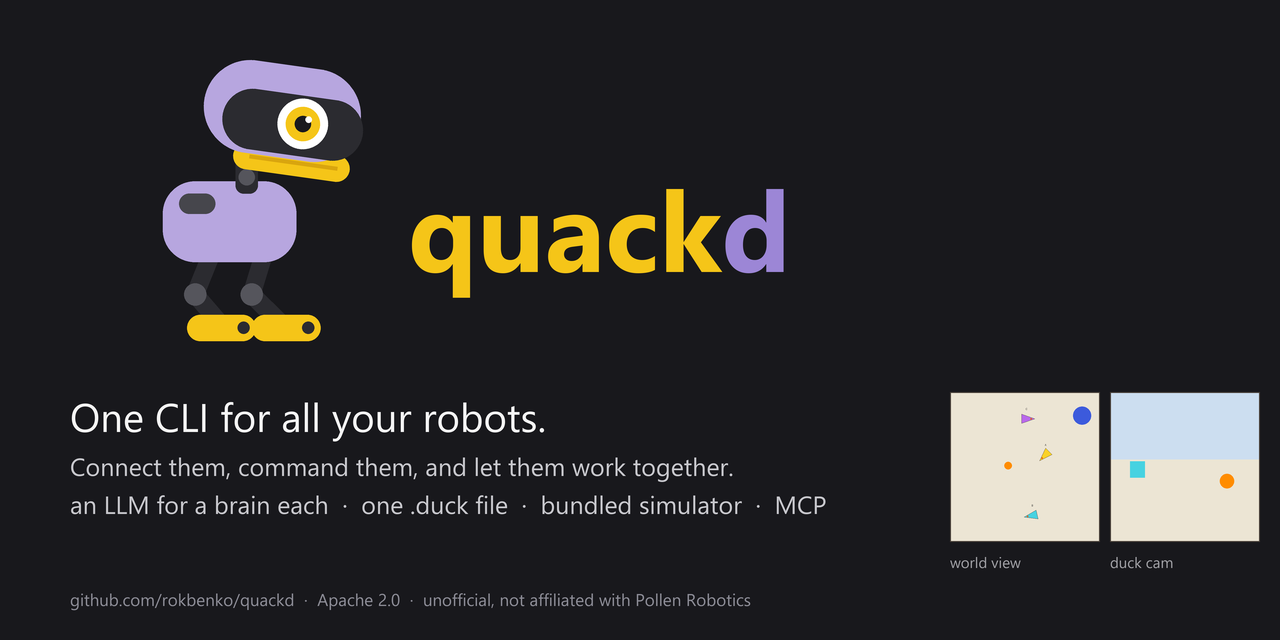
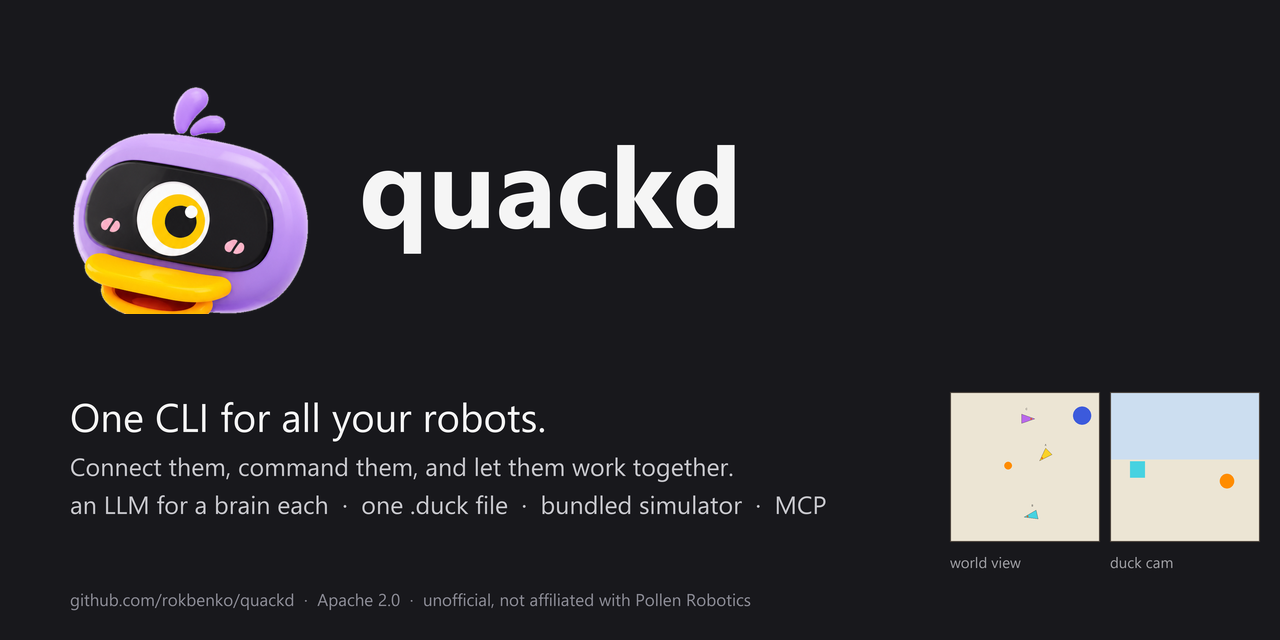
docs(readme): the head from quackd.org, and one mark instead of two
The README opened with a flat biped and a wordmark that set quack in yellow and
the d in purple. It opens with the 3D duck head instead, the same drawing
quackd.org shows in a browser tab, over a plain h1 in whatever colour the
reader's GitHub theme uses for a heading. The two marks had been drifting since
the landing page shipped, and a project whose front door and whose website do
not look like the same project is paying for two identities and getting neither.

The head was already here. web/assets/duck-mark.png was vendored for the browser
demo in 0.8, so the README, the social card and the demo now read one file
rather than three drawings of the same idea. It is the same art quackd.org shows
in a browser tab, though not the same file: favicon-96.png beside it is its own
smaller export, and the docs say so rather than claiming one file does both.

docs/assets/social_preview.py stops transcribing logo.svg's geometry into Pillow
and pastes that PNG instead. It lands after the LANCZOS downsample rather than
before, so the only finished art on the card is never resized, and both the mark
and the name are positioned by measuring their own ink, because _FACES resolves
to a different typeface on every machine and a hardcoded baseline would sit the
name at a different height on Windows than on CI. The wordmark loses the
two-colour split for the same white the headline uses.

docs/assets/logo.svg is deleted. A second mark that nothing renders is a second
mark that goes stale.
[…]

Changed region(s): [[0.0312, 0.0938, 0.625, 0.5312]]

diff --git a/docs/assets/social_preview.py b/docs/assets/social_preview.py
@@ -2,22 +2,29 @@
 
     uv run python docs/assets/social_preview.py        # writes docs/assets/social-preview.png
 
+Run it from a checkout. The sdist carries `docs/` and not `web/`, so the mark this pastes is
+not in a published package, the same way `hero3d.py` needs upstream's model fetched first.
+
 The card carried the one-liner, so it went stale the day the positioning changed
 ([ADR-0035](../adr/0035-one-cli-for-all-your-robots.md)). It had been made by hand and the
 script was never committed, which is why `docs/assets/README.md` used to point at a commit
 that does not contain one. This is that script, so the next person who changes a word here
 does not have to redraw a duck.
 
-Two things are drawn rather than loaded. The mark and the wordmark are `logo.svg`'s own
-geometry, transcribed, because rasterising SVG would add a dependency for one asset. The two
-panels on the right are real `sim2d` renders of a three robot arena, through the same
-`render_topdown` and `render_duckcam` a run writes its GIF with, so what the card shows is
-what the simulator draws.
+The mark is loaded rather than drawn. It is `web/assets/duck-mark.png`, the duck head the
+README opens with, the same art quackd.org shows in a browser tab, and it is pasted at its own
+resolution after the card is resampled, so the one piece of finished art here is never
+resized. Until 0.9 this script transcribed `logo.svg`'s geometry into Pillow instead, and
+`logo.svg` is gone with it. The two panels on the right are real `sim2d` renders of a three
+robot arena, through the same `render_topdown` and `render_duckcam` a run writes its GIF
+with, so what the card shows is what the simulator draws.
 
-Everything is drawn at `SS` times scale and resampled down, which is what gives the rounded
-corners and the type their edges. Fonts are the one machine-dependent part: a bold and a
-regular face are looked up from `_FACES` and the script stops with a readable error if
-neither is found, rather than silently falling back to a bitmap font that would not fit.
+Everything this script draws is drawn at `SS` times scale and resampled down, which is what
+gives the type its edges. The mark is the exception above: it is art rather than geometry,
+and it lands after that resample at the size it was exported. Fonts are the one
+machine-dependent part: a bold and a regular face are looked up from `_FACES` and the script
+stops with a readable error if neither is found, rather than silently falling back to a
+bitmap font that would not fit.
 
 Uploading it is still manual: GitHub has no API for Settings, Social preview.
 """
@@ -34,21 +41,19 @@ from quackd.sim2d.world import World
 
 HERE = Path(__file__).resolve().parent
 OUT = HERE / "social-preview.png"
+#: The mark, kept once. `web/assets` serves it to the browser demo and the README opens with
+#: it, so this reads that copy rather than taking a second one into `docs/assets`. The tab
+#: icon beside it, `favicon-96.png`, is the same drawing exported small, not this file.
+MARK = HERE.parent.parent / "web" / "assets" / "duck-mark.png"
 
 W, H = 1280, 640
 SS = 4  # supersample factor: draw big, resample once, keep the curves clean
 
-# Sampled from the card this replaces, so the two sit side by side in a timeline without
-# one of them looking like a different project. `logo.svg` is the source for the first four.
+# Sampled from the card this replaces, so the two sit side by side in a timeline without one
+# of them looking like a different project. The brand colours are no longer among them: the
+# mark brings its own and the name is set in the same white as the headline, because a
+# wordmark that recolours two letters competes with a piece of art that did not need help.
 BG = (24, 24, 28)
-YELLOW = (245, 197, 24)
-YELLOW_DARK = (217, 165, 14)
-LAVENDER = (183, 166, 223)
-PURPLE = (156, 134, 214)
-INK = (43, 43, 48)
-GREY = (85, 85, 92)
-WHITE = (255, 255, 255)
-EYE = (26, 26, 30)
 HEADLINE = (245, 245, 245)
 BODY = (200, 200, 205)
 MUTED = (140, 140, 150)
@@ -92,100 +97,38 @@ def s(x: float, y: float) -> tuple[float, float]:
     return x * SS, y * SS
 
 
-# ── the mark, transcribed from logo.svg ─────────────────────────────────────────────────
+# ── the lockup ──────────────────────────────────────────────────────────────────────────
 #
-# logo.svg draws in a 470x150 viewBox with the bird under `translate(8,6)`. Everything below
-# is in those coordinates and `_mark` applies the scale, so a change upstream can be copied
-# across by reading the two files next to each other.
+# Where the mark's own pixels land on the finished 1280x640 card. The name is placed off the
+# mark rather than at a coordinate of its own, so moving one moves both.
+MARK_XY = (57, 58)  # top left of the 256x256 PNG, chosen so its ink starts at the headline's x
+MARK_GAP = 48  # from the mark's right-hand ink to the start of the name
+WORDMARK_PT = 112
 
 
-def _bird_body(d: ImageDraw.ImageDraw, ox: float, oy: float, k: float) -> None:
-    """Legs, feet and torso: the part of the group that is not rotated."""
+def load_mark() -> tuple[Image.Image, tuple[int, int, int, int]]:
+    """The mark and the box its opaque pixels occupy on the finished card.
 
-    def p(x: float, y: float) -> tuple[float, float]:
-        return ox + x * k, oy + y * k
-
-    for pts in ((58, 96, 50, 116, 62, 130), (84, 96, 78, 116, 92, 130)):
-        d.line(
-            [p(pts[0], pts[1]), p(pts[2], pts[3]), p(pts[4], pts[5])],
-            fill=INK,
-            width=round(9 * k),
-            joint="curve",
-        )
-        # `joint="curve"` rounds the corner but not the ends, which the SVG rounds too
-        for cx, cy in ((pts[0], pts[1]), (pts[4], pts[5])):
-            r = 4.5 * k
-            d.ellipse(
-                [p(cx, cy)[0] - r, p(cx, cy)[1] - r, p(cx, cy)[0] + r, p(cx, cy)[1] + r], fill=INK
-            )
-    for cx, cy in ((50, 116), (78, 116)):
-        r = 5.5 * k
-        d.ellipse(
-            [p(cx, cy)[0] - r, p(cx, cy)[1] - r, p(cx, cy)[0] + r, p(cx, cy)[1] + r], fill=GREY
-        )
-    for x in (46, 78):  # feet
-        d.rounded_rectangle([p(x, 126), p(x + 34, 139)], radius=6.5 * k, fill=YELLOW)
-    for cx in (74, 106):
-        r = 3 * k
-        d.ellipse(
-            [p(cx, 132.5)[0] - r, p(cx, 132.5)[1] - r, p(cx, 132.5)[0] + r, p(cx, 132.5)[1] + r],
-            fill=INK,
-        )
-    d.rounded_rectangle([p(34, 60), p(100, 100)], radius=16 * k, fill=LAVENDER)
-    d.rounded_rectangle([p(42, 66), p(60, 76)], radius=5 * k, fill=(70, 70, 76))
-    d.rounded_rectangle([p(70, 34), p(81, 66)], radius=4 * k, fill=INK)  # neck
-    for cy in (46, 58):
-        r = 4 * k
-        d.ellipse(
-            [p(75.5, cy)[0] - r, p(75.5, cy)[1] - r, p(75.5, cy)[0] + r, p(75.5, cy)[1] + r],
-            fill=GREY,
-        )
+    The PNG is padded with transparency on three sides, so its file corner is not its visual
+    corner. Everything is aligned to the ink, and the ink is measured rather than assumed, so
+    redrawing the duck one day moves the name with it.
+    """
+    mark = Image.open(MARK).convert("RGBA")
+    box = mark.getbbox() or (0, 0, *mark.size)
+    x, y = MARK_XY
+    return mark, (x + box[0], y + box[1], x + box[2], y + box[3])
 
 
-def _bird_head(size: tuple[int, int], ox: float, oy: float, k: float) -> Image.Image:
-    """Beak, head and eye on their own layer, so the SVG's `rotate(-8 92 26)` is one call."""
-    layer = Image.new("RGBA", size, (0, 0, 0, 0))
-    d = ImageDraw.Draw(layer)
+def draw_wordmark(d: ImageDraw.ImageDraw, x: float, cy: float, size: int) -> None:
+    """`quackd` in the headline's white, its ink centred on `cy`. Supersampled coordinates.
 
-    def p(x: float, y: float) -> tuple[float, float]:
-        return ox + x * k, oy + y * k
-
-    d.rounded_rectangle([p(72, 43), p(130, 56)], radius=6.5 * k, fill=YELLOW)
-    d.line([p(80, 49.5), p(124, 49.5)], fill=YELLOW_DARK, width=round(2 * k))
-    d.rounded_rectangle([p(54, 2), p(132, 48)], radius=23 * k, fill=LAVENDER)
-    d.rounded_rectangle([p(64, 16), p(134, 46)], radius=15 * k, fill=INK)  # visor
-    for r, fill in ((12.5, WHITE), (8.5, YELLOW), (4.0, EYE)):
-        rr = r * k
-        d.ellipse(
-            [p(104, 30)[0] - rr, p(104, 30)[1] - rr, p(104, 30)[0] + rr, p(104, 30)[1] + rr],
-            fill=fill,
-        )
-    rr = 1.6 * k
-    d.ellipse(
-        [
-            p(106.5, 27.5)[0] - rr,
-            p(106.5, 27.5)[1] - rr,
-            p(106.5, 27.5)[0] + rr,
-            p(106.5, 27.5)[1] + rr,
-        ],
-        fill=WHITE,
-    )
-    pivot = p(92, 26)
-    return layer.rotate(-8, resample=Image.Resampling.BICUBIC, center=pivot)
-
-
-def draw_mark(canvas: Image.Image, x: float, y: float, k: float) -> None:
-    """The bird from `logo.svg`, its (8,6) group offset folded in, at `k` pixels per unit."""
-    ox, oy = x + 8 * k, y + 6 * k
-    _bird_body(ImageDraw.Draw(canvas), ox, oy, k)
-    canvas.alpha_composite(_bird_head(canvas.size, ox, oy, k))
-
-
-def draw_wordmark(d: ImageDraw.ImageDraw, x: float, y: float, size: int) -> None:
-    """`quack` in yellow, `d` in purple, which is the one thing the wordmark must keep."""
+    Measured rather than placed. `_FACES` resolves to a different typeface on every machine,
+    so a nominal point size is not an ink height, and a hardcoded baseline would sit the name
+    at a different height on Windows than on CI.
+    """
     f = font("bold", size)
-    d.text((x, y), "quack", font=f, fill=YELLOW, anchor="ls")
-    d.text((x + d.textlength("quack", font=f), y), "d", font=f, fill=PURPLE, anchor="ls")
+    _, top, _, bottom = d.textbbox((x, 0.0), "quackd", font=f, anchor="ls")
+    d.text((x, cy - (top + bottom) / 2), "quackd", font=f, fill=HEADLINE, anchor="ls")
 
 
 # ── the panels ──────────────────────────────────────────────────────────────────────────
@@ -210,9 +153,8 @@ def build() -> Image.Image:
     canvas = Image.new("RGBA", (W * SS, H * SS), (*BG, 255))
     d = ImageDraw.Draw(canvas)
 
-    draw_mark(canvas, *s(78, 48), 2.02 * SS)
-    d = ImageDraw.Draw(canvas)
-    draw_wordmark(d, *s(408, 272), 112)
+    mark, ink = load_mark()
+    draw_wordmark(d, *s(ink[2] + MARK_GAP, (ink[1] + ink[3]) / 2), WORDMARK_PT)
 
     d.text(
         s(70, 432),
@@ -252,7 +194,12 @@ def build() -> Image.Image:
         d.rectangle([left, top, left + side - 1, top + side - 1], outline=(70, 62, 55), width=SS)
         d.text((left, top + side + 26 * SS), label, font=small, fill=LABEL, anchor="ls")
 
-    return canvas.resize((W, H), Image.Resampling.LANCZOS).convert("RGB")
+    # The mark goes on last, at its own resolution. Drawing it into the supersampled canvas
+    # would mean scaling it up four times and back down once, which is two resamples of the
+    # only art here that was not drawn by this script.
+    card = canvas.resize((W, H), Image.Resampling.LANCZOS)
+    card.alpha_composite(mark, MARK_XY)
+    return card.convert("RGB")
 
 
 def main() -> None:

diff --git a/tests/test_pypi_readme.py b/tests/test_pypi_readme.py
@@ -111,6 +111,37 @@ def test_no_image_under_docs_assets_ships_in_the_sdist() -> None:
         )
 
 
+def test_the_card_and_the_readme_open_with_the_same_mark() -> None:
+    """One mark, one file, and a test that says so.
+
+    The README serves it over raw.githubusercontent and `social_preview.py` pastes the same
+    bytes off disk into the social card. Until 0.9 neither was tied to the other: the script
+    drew its own copy of the old logo in Pillow, so the front door and the link preview could
+    drift a redesign apart and nothing here would notice. The mark itself lives under `web/`,
+    beside the browser demo that serves it too, so it is also the one README image that no
+    longer sits in `docs/assets` and that `test_readme_images_are_absolute_and_exist` is
+    therefore the only other guard on."""
+    import importlib.util
+    from pathlib import Path
+
+    source = REPO / "docs" / "assets" / "social_preview.py"
+    spec = importlib.util.spec_from_file_location("_social_preview_under_test", source)
+    assert spec is not None and spec.loader is not None
+    module = importlib.util.module_from_spec(spec)
+    spec.loader.exec_module(module)
+
+    mark = Path(module.MARK)
+    assert mark.is_file(), f"the card generator pastes {mark}, and it is not there"
+
+    readme = (REPO / "README.md").read_text(encoding="utf-8")
+    first = re.search(r'<img src="https://raw\.githubusercontent\.com/[^"]+?/main/([^"?]+)', readme)
+    assert first is not None, "the README no longer opens with an image"
+    assert REPO / first.group(1) == mark, (
+        f"the README opens with {first.group(1)} and the card pastes "
+        f"{mark.relative_to(REPO).as_posix()}. Point both at one file, or they drift."
+    )
+
+
 def test_the_hero_script_uses_the_cap_the_pre_commit_hook_is_configured_with() -> None:
     """`check-added-large-files` only inspects files being *added*, so regenerating the hero
     in place past the cap is invisible to it. The script's own check is the one that fires,

diff --git a/docs/assets/README.md b/docs/assets/README.md
@@ -2,8 +2,7 @@
 
 | File | What it is | How it was made |
 |---|---|---|
-| `logo.svg` | The quackd mark + wordmark: a stylised Microduck-like biped (hooded head shell with one big side eye, wide bill, thin neck, rounded body, jointed legs, big feet) in the Lavender colourway. Our own drawing, not an upstream asset. | Hand-written SVG. |
-| `social-preview.png` | 1280×640 card for GitHub's *Settings → Social preview* (no API for this — upload it once by hand) and for link previews. Carries the one-liner, so it changes when the positioning does ([ADR-0035](../adr/0035-one-cli-for-all-your-robots.md)). | [`social_preview.py`](social_preview.py) — the mark and wordmark are [`logo.svg`](logo.svg)'s geometry transcribed into Pillow, and the two panels are real `sim2d` renders of a three-robot arena through the same `render_topdown` and `render_duckcam` a run's GIF uses. Until 0.9 this row claimed a script that was never committed, so the card could not be regenerated by anyone. |
+| `social-preview.png` | 1280×640 card for GitHub's *Settings → Social preview* (no API for this — upload it once by hand) and for link previews. Carries the one-liner, so it changes when the positioning does ([ADR-0035](../adr/0035-one-cli-for-all-your-robots.md)). | [`social_preview.py`](social_preview.py) — the mark is [`web/assets/duck-mark.png`](../../web/assets/duck-mark.png), pasted at its own resolution after the card is resampled so it is never resized, and the two panels are real `sim2d` renders of a three-robot arena through the same `render_topdown` and `render_duckcam` a run's GIF uses. Until 0.9 the mark and the wordmark were `logo.svg`'s geometry transcribed into Pillow, and before that this row claimed a script that was never committed, so the card could not be regenerated by anyone. |
 | `quackd-on-off.gif` | **The README hero.** One arena, recorded twice: on the left `walk in a square` with quackd, on the right the identical world, robot and walking policy with no quackd at all, where the duck stands because nothing in it reads English. Each pane carries a top-down inset of the path so far, because a chase camera on a 25 cm robot shows a duck walking and not a square. | [`hero3d.py`](hero3d.py) — the left pane is a real run through the real loop with the **scripted pilot** and no API key, and it has to *close*: the pilot measures how far from its starting point four legs left it (0.14 m in this recording) and declares failure rather than success if that is more than one side, so a GIF of four legs walked in a line cannot ship as a square. The right pane is not a worse model, it is no model: the duck is sent no twist, which is what a Microduck gets when nothing is attached to it. **The only file here that is not ours**: it renders Pollen Robotics' Microduck model, whose 3D files are CC BY-NC-SA. See [licenses.md](../licenses.md). |
 | `hero.gif` | The README hero until the physics simulator landed, and still the cartoon reference shot: `find-and-kick` in the built-in `sim2d` simulator. Not in the README now, still used by [LAUNCH.md](../../LAUNCH.md). Left: world view. Right: what the duck's camera sees. | `quackd record find-and-kick --provider fake --seed 3 --gif-size 320` — **the scripted pilot, not an LLM** (see ADR-0013). Real sim, real perception, real safety layer; the decisions are a rule. |
 | `transcript-example.jsonl` | The transcript of that run: system prompt, each observation, each tool call, each verb result, token counts. Predates the trace kinds ([ADR-0029](../adr/0029-tracing.md)), so it carries `llm`, `verb` and `frame` and none of `llm_request`, `verb_start`, `gate`, `intent`, `verb_end` or `note`. Re-record it with the next hero, and move the replay test that reads it (`tests/test_cli_trace.py`) onto a fixture of its own first: it is the only old-shape transcript in the repository, and `quackd trace` has to keep reading one. | Copied from `runs/<timestamp>/transcript.jsonl`. |
@@ -12,6 +11,14 @@
 | `transcripts/qwen2.5-coder-14b-lmstudio-find-and-kick-seed6-memory-read.jsonl` | A real local model piloting `find-and-kick`: Qwen 2.5 Coder 14B through LM Studio, seed 6, success in 8 steps, with an earlier run's episode in the prompt and no `remember` call. | `quackd run find-and-kick --provider lmstudio --model qwen/qwen2.5-coder-14b --seed 6`, copied from `runs/<timestamp>/transcript.jsonl` with the contributor's home directory removed from `duck_path`; `memory.path` is relative because the runs used `--memory-dir` next to the checkout, not `~/.quackd`. Read in [docs/local-llms.md](../local-llms.md). |
 | `transcripts/qwen2.5-coder-14b-lmstudio-find-and-kick-seed5-remember.jsonl` | The same model and duck once `remember` sat in strategy step 5: seed 5, success in 4 steps, one `remember` call with a fact from the verb results. | Same command with `--seed 5`, same scrubbing. |
 | `contributors.svg` | The circle of faces under *Contributing* in the README: everyone who has contributed, humans only, ordered by lines added, every avatar clipped to the same circle. | Generated by [`contributors.py`](contributors.py) from the GitHub contributors API, avatars inlined so the file needs no network. Regenerated by `.github/workflows/contributors.yml` on every push to `main` and weekly, committed only when it changes. |
+
+**The mark is not in this directory.** The duck head the README opens with and the social
+card is built around is [`web/assets/duck-mark.png`](../../web/assets/duck-mark.png), kept
+once beside the browser demo that also serves it. It is the same drawing quackd.org shows in
+a browser tab, though not the same file: `web/assets/favicon-96.png` is its own smaller
+export. It is quackd's own art. `logo.svg`, the flat biped and the two-colour wordmark
+that stood here until 0.9, is deleted rather than kept beside it: two marks is one more than a
+project this size can keep honest.
 
 Every recording here is driven by the scripted pilot rather than a model, and every caption
 says so. For the `quackd record` and `quackd run` assets, replacing one with a real model run is
@@ -26,7 +33,7 @@ recording means editing the script to take a provider and letting the model walk
 itself, which is the more interesting recording and costs a key.
 
 **On upstream's assets.** This directory used to say that no Pollen Robotics asset would ever
-live here, and for every file but one that is still true: the logo is our own drawing, and every
+live here, and for every file but one that is still true: the mark is our own art, and every
 `sim2d` recording is our own cartoon. `quackd-on-off.gif` is the exception. It renders
 Pollen's Microduck model, whose 3D files upstream's README licenses CC BY-NC-SA, and it is here
 because a picture of the real robot walking on its real gait says something a drawing of a box

diff --git a/docs/licenses.md b/docs/licenses.md
@@ -12,7 +12,7 @@
 | [three.js](https://github.com/mrdoob/three.js) (browser demo only) | MIT | loaded from a CDN by `web/`, never bundled here |
 | [Nunito Sans](https://fonts.google.com/specimen/Nunito+Sans) and [DM Mono](https://fonts.google.com/specimen/DM+Mono) (browser demo only) | SIL OFL 1.1, the terms Google Fonts publishes them under | **Nothing vendored.** `web/index.html` links a stylesheet from `fonts.googleapis.com` and the browser fetches the faces from `fonts.gstatic.com`; no font file is in this repository and none is served from it. Both families have a full fallback stack behind them in `style.css`, so a visitor who blocks those origins loses the typeface and nothing else. The two origins are named in `SECURITY.md` with the rest |
 | `docs/assets/quackd-on-off.gif` | **CC BY-NC-SA**, following the model it renders | **The one file in this repository that is not ours to relicense.** It is a recording of the physics simulator, so its frames are a render of Pollen Robotics' Microduck model. Attribution: Pollen Robotics, [microduck_rl](https://github.com/pollen-robotics/microduck_rl) at commit `2b25a48`. Non-commercial and share-alike apply to that file, not to quackd's code, and it is the only asset with that footprint. Regenerate it with [`docs/assets/hero3d.py`](assets/hero3d.py); delete it and the README loses a picture and nothing else |
-| Pollen Robotics / Microduck / Hugging Face names and logos | trademarks | Nominative use only. No logos, videos or brand assets in this repo. The three PNGs the browser demo serves from `web/assets/` — the header mark, the favicon and the touch icon — are quackd's own and nobody else's. quackd is unofficial and says so in README and NOTICE. |
+| Pollen Robotics / Microduck / Hugging Face names and logos | trademarks | Nominative use only. No logos, videos or brand assets in this repo. The three PNGs the browser demo serves from `web/assets/` — the header mark, the favicon and the touch icon — are quackd's own and nobody else's, and that mark is now also what the README opens with and what [`social_preview.py`](assets/social_preview.py) builds the social card around, read from the one copy rather than duplicated. quackd is unofficial and says so in README and NOTICE. |
 | [MCP Python SDK](https://github.com/modelcontextprotocol/python-sdk) | MIT | dependency |
 | typer, rich, pydantic, pyyaml, numpy, Pillow, opencv-python-headless, python-dotenv | MIT / BSD / Apache | dependencies (see `uv.lock`) |
 | ultralytics (optional `[yolo]`) | AGPL-3.0 | optional extra, lazily imported, never required; if you ship a product on it, read its license |

diff --git a/CHANGELOG.md b/CHANGELOG.md
@@ -221,6 +221,27 @@ and this project adheres to [Semantic Versioning](https://semver.org/spec/v2.0.0
 
 ### Changed
 
+- **The README and the social card wear the duck head quackd.org uses, and `logo.svg` is
+  gone.** The README opened with a flat biped and a wordmark that set `quack` in yellow and
+  the `d` in purple. It opens with the 3D duck head instead, the same drawing quackd.org
+  shows in a browser tab, over a plain `<h1>` in whatever colour the reader's GitHub theme
+  uses for a heading. The two marks had been diverging since the landing page shipped, and a
+  project whose front door and whose website do not look like the same project is paying for
+  two identities and getting neither. The head was already in this repository at
+  `web/assets/duck-mark.png`, vendored for the browser demo in 0.8, so the README, the card
+  and the demo now read one file. `docs/assets/social_preview.py` stops transcribing
+  `logo.svg`'s geometry into Pillow and pastes that PNG instead, after the resample rather
+  than before, so the art is never resized, and it measures the mark's own ink and the type's
+  own height to place them rather than trusting a coordinate, because `_FACES` resolves to a
+  different typeface on every machine. The wordmark loses the two-colour split for the same
+  white the headline uses. `docs/assets/logo.svg` is deleted, because a second mark nothing
+  renders is a second mark that goes stale. What kept the two in step before was nothing, so
+  `tests/test_pypi_readme.py` now asserts that the file the README opens with and the file the
+  card pastes are the same one, and `web/README.md` records that `web/assets/` stopped being
+  the browser demo's private chrome the moment two other things started reading it. The
+  uploaded social preview is a manual follow-up as always: GitHub has no API for it, and
+  PLAN.md carries it.
+
 - **The LeRobot arm adapter stops taking the arm's word for four things it never said.**
   Re-reading upstream at the pinned commit found that `is_connected` is only the serial
   port's open flag, that `get_observation()` reads positions and nothing else, that a degrees

diff --git a/web/README.md b/web/README.md
@@ -85,6 +85,13 @@ What the page does serve from this directory is three PNGs, and they are quackd'
 one. They replaced a 🦆 emoji and an inline-SVG favicon built around the same emoji. There
 are no other images: the arena is drawn with WebGL and the film grain is a data URI.
 
+`assets/duck-mark.png` is no longer only this page's. It is the project mark, kept once here
+rather than copied: the repository README opens with it over raw.githubusercontent, and
+`docs/assets/social_preview.py` opens this exact path to paste it into the social card. Rename
+or move it and both break, so the three references move together. `tests/test_web.py` checks
+that this page asks for it, `tests/test_docs.py` that the README's copy resolves, and
+`tests/test_pypi_readme.py` that the card generator still finds it.
+
 ## Your API key
 
 It is read from an input, kept in a variable for the life of the tab, and sent straight to
@@ -318,7 +325,7 @@ Deliberately, and none of it is a bug. This list is the canonical one: `README.m
 | `serve.py` | the mount, locally: stdlib only, serves this directory under `/simulator` the way the deploy does |
 | `build_catalogue.py` | writes `src/catalogue.js` from Python's catalogue. Stdlib only. Run it after adding a model |
 | `style.css` | hand-authored, in the quackd-web design language |
-| `assets/` | quackd's own mark: the header logo, the favicon, the touch icon |
+| `assets/` | quackd's own mark: the header logo, the favicon, the touch icon. `duck-mark.png` is the project mark: the repository README and the social card read it from here |
 | `src/microduck.js` | the robot: MJCF, the 50 Hz loop, the policy, the gait floor |
 | `src/pilot.js` | quackd itself: the clock, the verbs, the contract, the loop |
 | `src/catalogue.js` | GENERATED. the model list, from `quackd/agent/providers/catalogue.py` |

diff --git a/PLAN.md b/PLAN.md
@@ -112,9 +112,12 @@ not before.
 - ⏸ **Exercise `remember` against a cloud model.** The scripted pilot has no script for it, so
   `--provider fake` writes episodes and never a note.
 - ⏸ Upload `docs/assets/social-preview.png` under Settings → Social preview. There is no API
-  for it, so it is the one asset a commit here cannot ship. The card itself is current: it
-  carries the one-liner ([ADR-0035](docs/adr/0035-one-cli-for-all-your-robots.md)) and its two
-  panels are a real three-robot `sim2d` arena. Regenerate it with
+  for it, so it is the one asset a commit here cannot ship, and it is now a version behind: the
+  card was rebuilt around the duck head the README and quackd.org both use, so the one GitHub
+  serves is still showing the flat biped and the two-colour wordmark that no longer exist
+  anywhere else. The card is otherwise current: it carries the one-liner
+  ([ADR-0035](docs/adr/0035-one-cli-for-all-your-robots.md)) and its two panels are a real
+  three-robot `sim2d` arena. Regenerate it with
   [`docs/assets/social_preview.py`](docs/assets/social_preview.py), which exists because the
   original was drawn by hand and the script was never committed, so nobody could.
 - ⏸ **No asset shows a flock of pilots.** `flock.gif` is the coordinator: three identical ducks

diff --git a/README.md b/README.md
@@ -1,6 +1,8 @@
 <p align="center">
-  <img src="https://raw.githubusercontent.com/rokbenko/quackd/main/docs/assets/logo.svg?v=3" alt="quackd" width="360">
+  <img src="https://raw.githubusercontent.com/rokbenko/quackd/main/web/assets/duck-mark.png" alt="" width="128">
 </p>
+
+<h1 align="center">quackd</h1>
 
 <p align="center"><strong>One CLI for all your robots. Connect them, command them, and let them work together, each with an LLM for a brain.</strong><br>
 <sub>quackd, pronounced “quacked”, began as the brain daemon the Microduck was missing, named like that robot's own <code>robotd</code>, <code>mediad</code>, <code>padd</code> and <code>tofd</code>. That is where the ducks come from: a task is a <code>.duck</code> file and a group of robots is a flock. Seven robots today, every one of them in a simulator or a mock so far, and one of them a duck you can print and build yourself.</sub></p>
